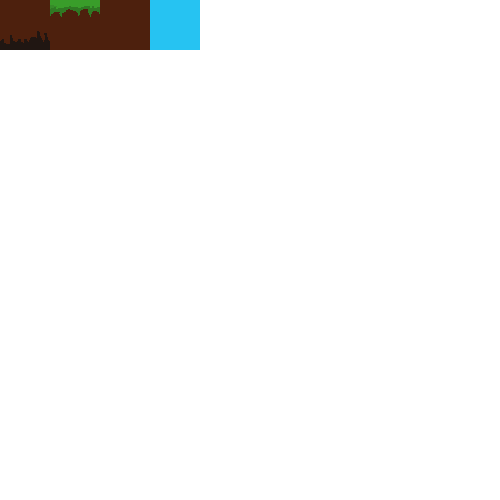
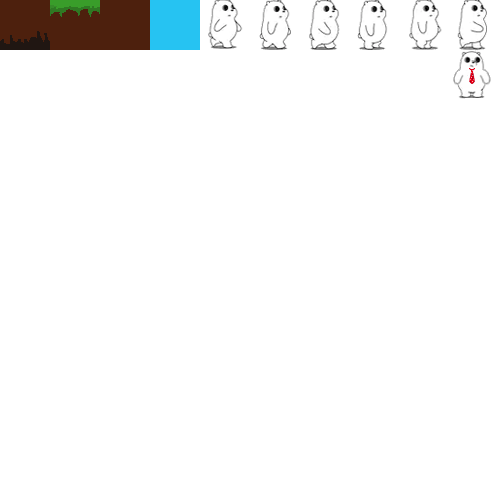
0.0.0_CHUNGUS_ADVENTURE: UPDATE ~ Semi-interim commit; completed sprite implementation to generate main character sprite, as well as implented jumping motion. Added basic keyboard tracking.

diff --git a/src/index.ts b/src/index.ts
@@ -5,32 +5,96 @@
  * Index.ts (Typescript) entry point for project codebase.
  */
 import SpriteBox from "./SpriteBox";
-import {loadLevel, loadBackgroundSprites} from "./loaders";
+import Compositor from "./Compositor";
+import Timer from "./Timer";
+import Keyboard from "./KeystrokeState";
+import {createBackgroundLayer} from "./layers";
+import {loadLevel, loadBackgroundSprites, loadCharacterSprites} from "./loaders";
 
 const
     css = require('./css/main.css'),
     canvas = <HTMLCanvasElement>document.getElementById("game-screen"),
     context = canvas.getContext('2d');
 
-function drawBackground(background, context, sprites) {
-    background.ranges.forEach((range) => {
+function createSpriteLayer(entity) {
+    return function drawSpriteLayer(context) {
+        entity.draw(context);
+    }
+}
 
-        for (let x = range[0]; x < range[1]; x++) {
+class Vectors {
+    x;
+    y;
 
-            for (let y = range[2]; y < range[3]; y++) {
-                sprites.drawTile(background.tile, context, x, y);
-            }
-        }
-    })
+    constructor(x: number, y: number) {
+        this.set(x, y);
+    }
+
+    set(x, y) {
+        this.x = x;
+        this.y = y;
+    }
+}
+
+class Entity {
+    position;
+    velocity;
+    update;
+    draw;
+
+    constructor() {
+        this.position = new Vectors(0, 0);
+        this.velocity = new Vectors(0, 0);
+    }
 }
 
 Promise.all([
     loadBackgroundSprites(),
-    loadLevel()
+    loadLevel(),
+    loadCharacterSprites()
 ])
-    .then(([sprites, level]) => {
-            level.backgrounds.forEach(background => {
-                drawBackground(background, context, sprites);
+    .then(([backgroundSprites, level, chungus]) => {
+            const
+                backgroundLayer = createBackgroundLayer(level.backgrounds, backgroundSprites),
+                comp = new Compositor(),
+                gravity = 1800,
+                chungusEntity = new Entity(),
+                spriteLayer = createSpriteLayer(chungusEntity),
+                timer = new Timer(1 / 60);
+
+            const SPACE = 32;
+            const input = new Keyboard();
+            input.addMapping(SPACE, keyState => {
+                if (keyState) {
+                    console.log("CHungus jump");
+                } else {
+                    console.log("Chungus jump cancel");
+                }
             });
+
+            input.listenTo(window);
+
+            chungusEntity.position.set(200, 260);
+            chungusEntity.velocity.set(20, -400);
+
+            chungusEntity.update = function updateChungus(deltaTime) {
+                this.position.x += this.velocity.x * deltaTime;
+                this.position.y += this.velocity.y * deltaTime;
+            };
+
+            chungusEntity.draw = function drawChungus() {
+                chungus.draw('idle', context, this.position.x, this.position.y);
+            };
+
+            comp.layers.push(backgroundLayer);
+            comp.layers.push(spriteLayer);
+
+            timer.update = function update(deltaTime) {
+                chungusEntity.update(deltaTime);
+                comp.drawLayer(context);
+                chungusEntity.velocity.y += gravity * deltaTime;
+            };
+
+            timer.start();
         }
     );

diff --git a/src/loaders.ts b/src/loaders.ts
@@ -17,7 +17,7 @@ export function loadLevel() {
 }
 
 // Loading and returning the spriteSheet image.
-export function loadBackground() {
+export function loadSpriteSheetImage() {
     return new Promise(resolve => {
         const base = new Image();
 
@@ -32,15 +32,26 @@ export function loadBackground() {
 // Fetching the spriteSheet image and creating a custom SpriteBox class for the corresponding image, and returning the
 // new instance of sprites.
 export function loadBackgroundSprites() {
-    return loadBackground()
+    return loadSpriteSheetImage()
         .then(image => {
             const sprites = new SpriteBox(image, 50, 50);
 
-            sprites.define('bedrock', 0, 0);
-            sprites.define('ground', 1, 0);
-            sprites.define('soil', 2, 0);
-            sprites.define('sky', 3, 0);
+            sprites.defineTile('bedrock', 0, 0);
+            sprites.defineTile('ground', 1, 0);
+            sprites.defineTile('soil', 2, 0);
+            sprites.defineTile('sky', 3, 0);
 
             return sprites;
         });
+}
+
+export function loadCharacterSprites() {
+    return loadSpriteSheetImage()
+        .then(image => {
+            const sprites = new SpriteBox(image, 50, 50);
+
+            sprites.define('idle', 450, 50, 40, 50);
+
+            return sprites;
+        })
 }

diff --git a/src/SpriteBox.ts b/src/SpriteBox.ts
@@ -17,25 +17,29 @@ export default class SpriteBox {
         this.tiles = new Map();
     }
 
-    define(name: string, x: number, y: number) {
+    defineTile(name, x, y) {
+        this.define(name, x * this.width, y * this.height, this.width, this.height);
+    }
+
+    define(name: string, x: number, y: number, width: number, height: number) {
         const buffer = document.createElement('canvas');
 
         if (buffer) {
-            buffer.width = this.width;
-            buffer.height = this.height;
+            buffer.width = width;
+            buffer.height = height;
 
             buffer
                 .getContext('2d')
                 .drawImage(
                     this.image,
-                    x * this.width,
-                    y * this.height,
-                    this.width,
-                    this.height,
+                    x,
+                    y,
+                    width,
+                    height,
                     0,
                     0,
-                    this.width,
-                    this.height
+                    width,
+                    height
                 );
 
             this.tiles.set(name, buffer);

diff --git a/src/KeystrokeState.ts b/src/KeystrokeState.ts
@@ -1,0 +1,44 @@
+const PRESSED = 1;
+const RELEASED = 0;
+
+export default class Keyboard {
+    keyStates;
+    keyMap;
+
+    constructor() {
+        this.keyStates = new Map();
+        this.keyMap = new Map();
+    }
+
+    addMapping(keyCode, callback) {
+        this.keyMap.set(keyCode, callback);
+    }
+
+    handleEvent(event) {
+        const {keyCode} = event;
+
+        if (!this.keyMap.has(keyCode)) {
+            return;
+        }
+
+        event.preventDefault();
+
+        const keyState = event.type === 'keydown' ? PRESSED : RELEASED;
+
+        if (this.keyStates.get(keyCode) === keyState) {
+            return;
+        }
+
+        this.keyStates.set(keyCode, keyState);
+
+        this.keyMap.get(keyCode)(keyState);
+    }
+
+    listenTo(window) {
+        ['keyup', 'keydown'].forEach(eventName => {
+            window.addEventListener(eventName, event => {
+                this.handleEvent(event);
+            })
+        })
+    }
+}

diff --git a/src/layers.ts b/src/layers.ts
@@ -1,0 +1,26 @@
+function drawBackground(background, context, sprites) {
+    background.ranges.forEach((range) => {
+
+        for (let x = range[0]; x < range[1]; x++) {
+
+            for (let y = range[2]; y < range[3]; y++) {
+                sprites.drawTile(background.tile, context, x, y);
+            }
+        }
+    })
+}
+
+export function createBackgroundLayer(backgrounds, sprites) {
+    const buffer = document.createElement('canvas');
+
+    buffer.width = 800;
+    buffer.height = 500;
+
+    backgrounds.forEach(background => {
+        drawBackground(background, buffer.getContext('2d'), sprites);
+    });
+
+    return function drawBackgroundLayer(context) {
+        context.drawImage(buffer, 0, 0);
+    }
+}

diff --git a/src/Timer.ts b/src/Timer.ts
@@ -1,0 +1,30 @@
+export default class Timer {
+    updateProxy;
+    update;
+
+    constructor(deltaTime = 1/60) {
+        let
+            accumulatedTime = 0,
+            lastTime = 0;
+
+        this.updateProxy = (time) => {
+            accumulatedTime += (time - lastTime) / 1000;
+
+            while (accumulatedTime > deltaTime) {
+                this.update(deltaTime);
+                accumulatedTime -= deltaTime;
+            }
+            lastTime = time;
+
+            this.enqueue();
+        }
+    }
+
+    enqueue() {
+        requestAnimationFrame(this.updateProxy)
+    }
+
+    start() {
+        this.enqueue();
+    }
+}

diff --git a/src/Compositor.ts b/src/Compositor.ts
@@ -1,0 +1,13 @@
+export default class Compositor {
+    layers;
+
+    constructor() {
+        this.layers = [];
+    }
+
+    drawLayer(context) {
+        this.layers.forEach(layer => {
+            layer(context);
+        })
+    }
+}
